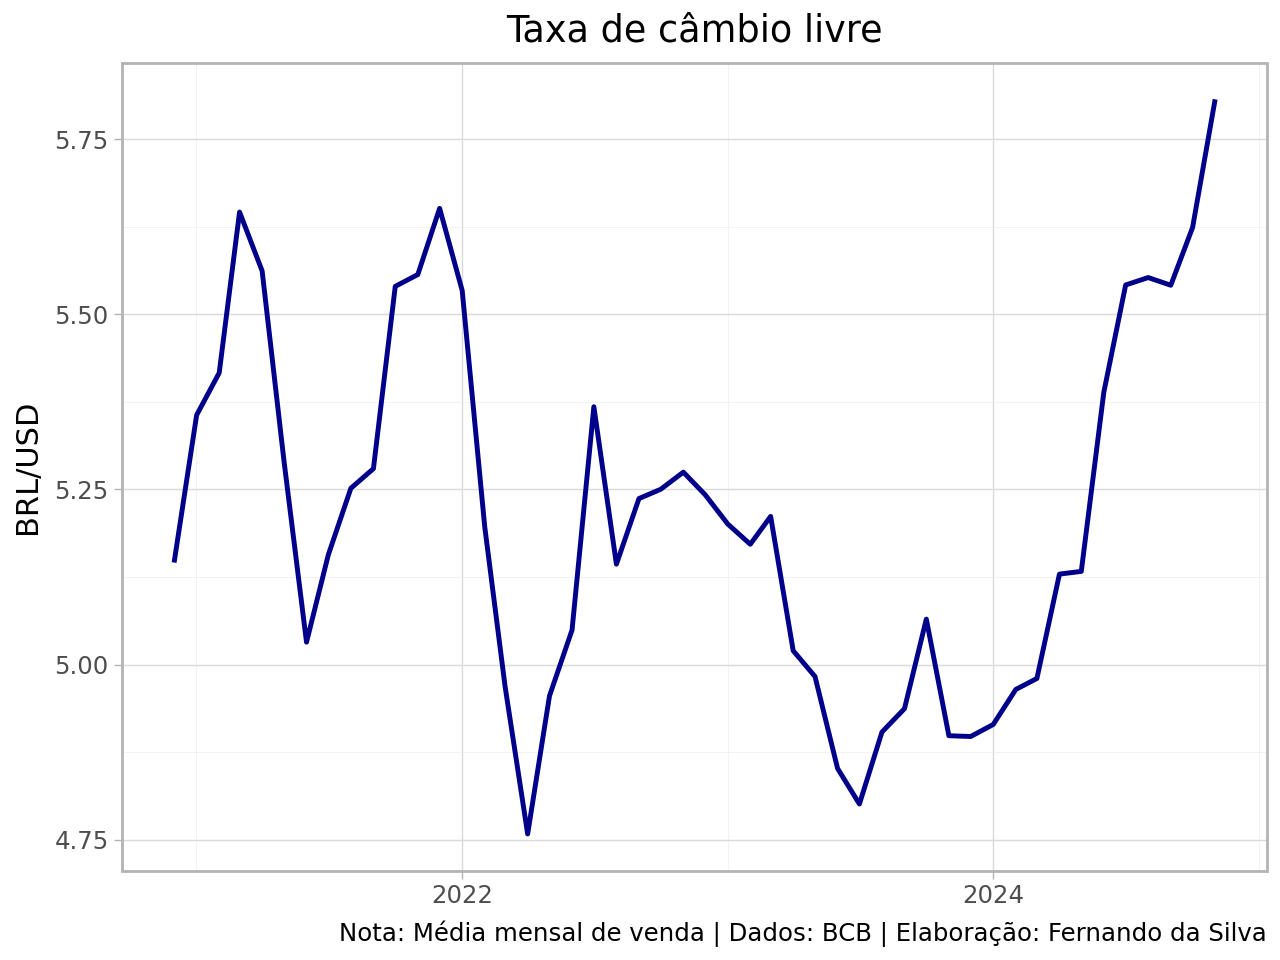
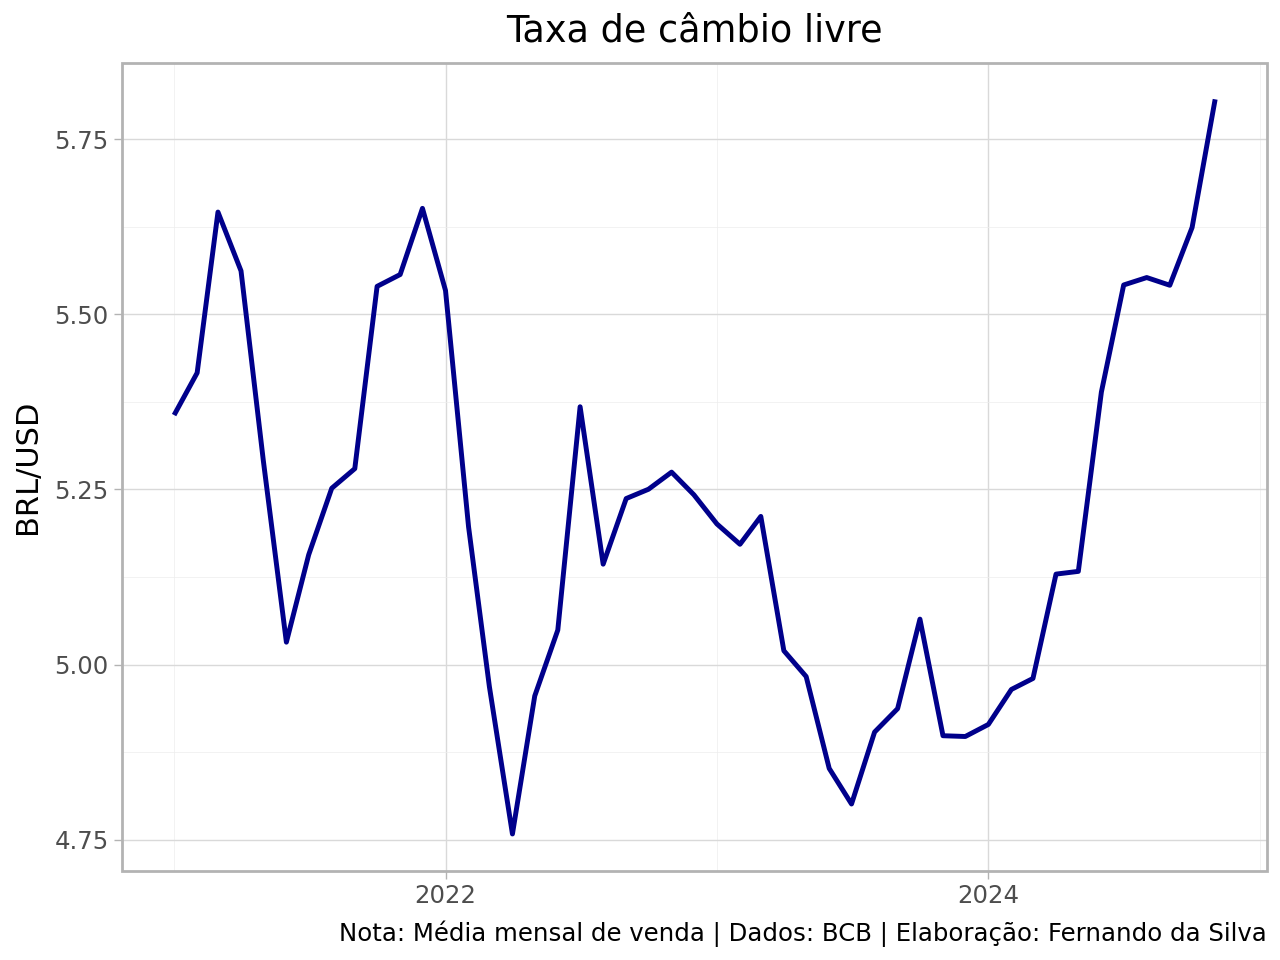
Deploy de aplicações

diff --git a/aplicacao/relatorio/relatorio.html b/aplicacao/relatorio/relatorio.html
@@ -2,7 +2,7 @@
 <html xmlns="http://www.w3.org/1999/xhtml" lang="en" xml:lang="en"><head>
 
 <meta charset="utf-8">
-<meta name="generator" content="quarto-1.6.39">
+<meta name="generator" content="quarto-1.6.40">
 
 <meta name="viewport" content="width=device-width, initial-scale=1.0, user-scalable=yes">
 
@@ -64,7 +64,7 @@ pre > code.sourceCode > span > a:first-child::before { text-decoration: underlin
 <script src="relatorio_files/libs/quarto-html/tippy.umd.min.js"></script>
 <script src="relatorio_files/libs/quarto-html/anchor.min.js"></script>
 <link href="relatorio_files/libs/quarto-html/tippy.css" rel="stylesheet">
-<link href="relatorio_files/libs/quarto-html/quarto-syntax-highlighting-e26003cea8cd680ca0c55a263523d882.css" rel="stylesheet" id="quarto-text-highlighting-styles">
+<link href="relatorio_files/libs/quarto-html/quarto-syntax-highlighting-549806ee2085284f45b00abea8c6df48.css" rel="stylesheet" id="quarto-text-highlighting-styles">
 <script src="relatorio_files/libs/bootstrap/bootstrap.min.js"></script>
 <link href="relatorio_files/libs/bootstrap/bootstrap-icons.css" rel="stylesheet">
 <link href="relatorio_files/libs/bootstrap/bootstrap-dd3956385ee907e48a7f9381ebb636bf.min.css" rel="stylesheet" append-hash="true" id="quarto-bootstrap" data-mode="light">
@@ -110,7 +110,7 @@ pre > code.sourceCode > span > a:first-child::before { text-decoration: underlin
 <section id="bibliotecas" class="level2">
 <h2 class="anchored" data-anchor-id="bibliotecas">Bibliotecas</h2>
 <p>Primeiro é necessário importar as bibliotecas de Python (e instalar caso não estejam instalados ainda) para usar as funções úteis de coleta, tratamento e visualização de dados:</p>
-<div id="aa7767d1" class="cell" data-execution_count="1">
+<div id="18c918b8" class="cell" data-execution_count="1">
 <div class="sourceCode cell-code" id="cb1"><pre class="sourceCode python code-with-copy"><code class="sourceCode python"><span id="cb1-1"><a href="#cb1-1" aria-hidden="true" tabindex="-1"></a><span class="co"># Importar bibliotecas</span></span>
 <span id="cb1-2"><a href="#cb1-2" aria-hidden="true" tabindex="-1"></a><span class="im">from</span> bcb <span class="im">import</span> sgs</span>
 <span id="cb1-3"><a href="#cb1-3" aria-hidden="true" tabindex="-1"></a><span class="im">import</span> pandas <span class="im">as</span> pd</span>
@@ -120,7 +120,7 @@ pre > code.sourceCode > span > a:first-child::before { text-decoration: underlin
 <section id="dados" class="level2">
 <h2 class="anchored" data-anchor-id="dados">Dados</h2>
 <p>Em seguida é necessário identificar o código da série temporal desejada no sistema SGS/BCB e utilizar este código para obter os dados com a bibliotecas <code>python-bcb</code>:</p>
-<div id="89c5289d" class="cell" data-execution_count="2">
+<div id="0219724f" class="cell" data-execution_count="2">
 <div class="sourceCode cell-code" id="cb2"><pre class="sourceCode python code-with-copy"><code class="sourceCode python"><span id="cb2-1"><a href="#cb2-1" aria-hidden="true" tabindex="-1"></a><span class="co"># Coleta de dados</span></span>
 <span id="cb2-2"><a href="#cb2-2" aria-hidden="true" tabindex="-1"></a>dados <span class="op">=</span> sgs.get(</span>
 <span id="cb2-3"><a href="#cb2-3" aria-hidden="true" tabindex="-1"></a>    codes <span class="op">=</span> {<span class="st">"cambio"</span>: <span class="dv">3698</span>},</span>
@@ -128,7 +128,7 @@ pre > code.sourceCode > span > a:first-child::before { text-decoration: underlin
 <span id="cb2-5"><a href="#cb2-5" aria-hidden="true" tabindex="-1"></a>    )</span></code><button title="Copy to Clipboard" class="code-copy-button"><i class="bi"></i></button></pre></div>
 </div>
 <p>Os dados brutos obtidos no SGS/BCB são exibidos abaixo:</p>
-<div id="89e2c4ef" class="cell" data-execution_count="3">
+<div id="36efc077" class="cell" data-execution_count="3">
 <div class="sourceCode cell-code" id="cb3"><pre class="sourceCode python code-with-copy"><code class="sourceCode python"><span id="cb3-1"><a href="#cb3-1" aria-hidden="true" tabindex="-1"></a>dados.tail()</span></code><button title="Copy to Clipboard" class="code-copy-button"><i class="bi"></i></button></pre></div>
 <div class="cell-output cell-output-display" data-execution_count="3">
 <div>
@@ -173,14 +173,14 @@ pre > code.sourceCode > span > a:first-child::before { text-decoration: underlin
 </div>
 </div>
 <p>Abaixo criamos uma colunna adicional com a informação do índice da tabela:</p>
-<div id="f7f06a43" class="cell" data-execution_count="4">
+<div id="10250837" class="cell" data-execution_count="4">
 <div class="sourceCode cell-code" id="cb4"><pre class="sourceCode python code-with-copy"><code class="sourceCode python"><span id="cb4-1"><a href="#cb4-1" aria-hidden="true" tabindex="-1"></a>dados <span class="op">=</span> dados.assign(data <span class="op">=</span> dados.index)</span></code><button title="Copy to Clipboard" class="code-copy-button"><i class="bi"></i></button></pre></div>
 </div>
 </section>
 <section id="visualização-de-dados" class="level2">
 <h2 class="anchored" data-anchor-id="visualização-de-dados">Visualização de Dados</h2>
 <p>Por fim, pode ser utilizado um pacote de visualização de dados como o <code>plotnine</code> para gerar um gráfico de linha com a série da taxa de câmbio:</p>
-<div id="56fdd0a6" class="cell" data-execution_count="5">
+<div id="8619a9be" class="cell" data-execution_count="5">
 <div class="sourceCode cell-code" id="cb5"><pre class="sourceCode python code-with-copy"><code class="sourceCode python"><span id="cb5-1"><a href="#cb5-1" aria-hidden="true" tabindex="-1"></a><span class="co"># Gráfico de linha</span></span>
 <span id="cb5-2"><a href="#cb5-2" aria-hidden="true" tabindex="-1"></a><span class="bu">print</span>((p9.ggplot(data <span class="op">=</span> dados) <span class="op">+</span></span>
 <span id="cb5-3"><a href="#cb5-3" aria-hidden="true" tabindex="-1"></a>  p9.aes(x <span class="op">=</span> <span class="st">"data"</span>, y <span class="op">=</span> <span class="st">"cambio"</span>) <span class="op">+</span></span>
@@ -194,7 +194,7 @@ pre > code.sourceCode > span > a:first-child::before { text-decoration: underlin
 <span id="cb5-11"><a href="#cb5-11" aria-hidden="true" tabindex="-1"></a>    ) <span class="op">+</span></span>
 <span id="cb5-12"><a href="#cb5-12" aria-hidden="true" tabindex="-1"></a>  p9.theme_light()))</span></code><button title="Copy to Clipboard" class="code-copy-button"><i class="bi"></i></button></pre></div>
 <div class="cell-output cell-output-stderr">
-<pre><code>/tmp/ipykernel_2080/4291321332.py:2: FutureWarning: Using print(plot) to draw and show the plot figure is deprecated and will be removed in a future version. Use plot.show().</code></pre>
+<pre><code>/tmp/ipykernel_1985/4291321332.py:2: FutureWarning: Using print(plot) to draw and show the plot figure is deprecated and will be removed in a future version. Use plot.show().</code></pre>
 </div>
 <div class="cell-output cell-output-display">
 <div>

diff --git a/aplicacao/relatorio/relatorio_files/libs/quarto-html/quarto-syntax-highlighting-549806ee2085284f45b00abea8c6df48.css b/aplicacao/relatorio/relatorio_files/libs/quarto-html/quarto-syntax-highlighting-549806ee2085284f45b00abea8c6df48.css
@@ -1,0 +1,205 @@
+/* quarto syntax highlight colors */
+:root {
+  --quarto-hl-ot-color: #003B4F;
+  --quarto-hl-at-color: #657422;
+  --quarto-hl-ss-color: #20794D;
+  --quarto-hl-an-color: #5E5E5E;
+  --quarto-hl-fu-color: #4758AB;
+  --quarto-hl-st-color: #20794D;
+  --quarto-hl-cf-color: #003B4F;
+  --quarto-hl-op-color: #5E5E5E;
+  --quarto-hl-er-color: #AD0000;
+  --quarto-hl-bn-color: #AD0000;
+  --quarto-hl-al-color: #AD0000;
+  --quarto-hl-va-color: #111111;
+  --quarto-hl-bu-color: inherit;
+  --quarto-hl-ex-color: inherit;
+  --quarto-hl-pp-color: #AD0000;
+  --quarto-hl-in-color: #5E5E5E;
+  --quarto-hl-vs-color: #20794D;
+  --quarto-hl-wa-color: #5E5E5E;
+  --quarto-hl-do-color: #5E5E5E;
+  --quarto-hl-im-color: #00769E;
+  --quarto-hl-ch-color: #20794D;
+  --quarto-hl-dt-color: #AD0000;
+  --quarto-hl-fl-color: #AD0000;
+  --quarto-hl-co-color: #5E5E5E;
+  --quarto-hl-cv-color: #5E5E5E;
+  --quarto-hl-cn-color: #8f5902;
+  --quarto-hl-sc-color: #5E5E5E;
+  --quarto-hl-dv-color: #AD0000;
+  --quarto-hl-kw-color: #003B4F;
+}
+
+/* other quarto variables */
+:root {
+  --quarto-font-monospace: SFMono-Regular, Menlo, Monaco, Consolas, "Liberation Mono", "Courier New", monospace;
+}
+
+pre > code.sourceCode > span {
+  color: #003B4F;
+}
+
+code span {
+  color: #003B4F;
+}
+
+code.sourceCode > span {
+  color: #003B4F;
+}
+
+div.sourceCode,
+div.sourceCode pre.sourceCode {
+  color: #003B4F;
+}
+
+code span.ot {
+  color: #003B4F;
+  font-style: inherit;
+}
+
+code span.at {
+  color: #657422;
+  font-style: inherit;
+}
+
+code span.ss {
+  color: #20794D;
+  font-style: inherit;
+}
+
+code span.an {
+  color: #5E5E5E;
+  font-style: inherit;
+}
+
+code span.fu {
+  color: #4758AB;
+  font-style: inherit;
+}
+
+code span.st {
+  color: #20794D;
+  font-style: inherit;
+}
+
+code span.cf {
+  color: #003B4F;
+  font-weight: bold;
+  font-style: inherit;
+}
+
+code span.op {
+  color: #5E5E5E;
+  font-style: inherit;
+}
+
+code span.er {
+  color: #AD0000;
+  font-style: inherit;
+}
+
+code span.bn {
+  color: #AD0000;
+  font-style: inherit;
+}
+
+code span.al {
+  color: #AD0000;
+  font-style: inherit;
+}
+
+code span.va {
+  color: #111111;
+  font-style: inherit;
+}
+
+code span.bu {
+  font-style: inherit;
+}
+
+code span.ex {
+  font-style: inherit;
+}
+
+code span.pp {
+  color: #AD0000;
+  font-style: inherit;
+}
+
+code span.in {
+  color: #5E5E5E;
+  font-style: inherit;
+}
+
+code span.vs {
+  color: #20794D;
+  font-style: inherit;
+}
+
+code span.wa {
+  color: #5E5E5E;
+  font-style: italic;
+}
+
+code span.do {
+  color: #5E5E5E;
+  font-style: italic;
+}
+
+code span.im {
+  color: #00769E;
+  font-style: inherit;
+}
+
+code span.ch {
+  color: #20794D;
+  font-style: inherit;
+}
+
+code span.dt {
+  color: #AD0000;
+  font-style: inherit;
+}
+
+code span.fl {
+  color: #AD0000;
+  font-style: inherit;
+}
+
+code span.co {
+  color: #5E5E5E;
+  font-style: inherit;
+}
+
+code span.cv {
+  color: #5E5E5E;
+  font-style: italic;
+}
+
+code span.cn {
+  color: #8f5902;
+  font-style: inherit;
+}
+
+code span.sc {
+  color: #5E5E5E;
+  font-style: inherit;
+}
+
+code span.dv {
+  color: #AD0000;
+  font-style: inherit;
+}
+
+code span.kw {
+  color: #003B4F;
+  font-weight: bold;
+  font-style: inherit;
+}
+
+.prevent-inlining {
+  content: "</";
+}
+
+/*# sourceMappingURL=ae99138f4fbc2fb4c9f5e5cd69c22459.css.map */
